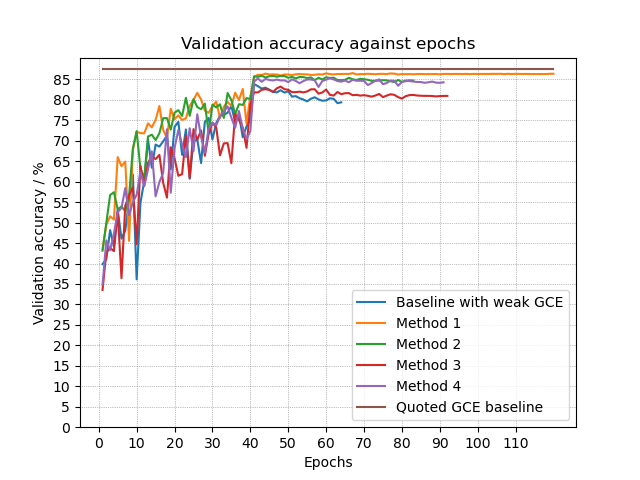
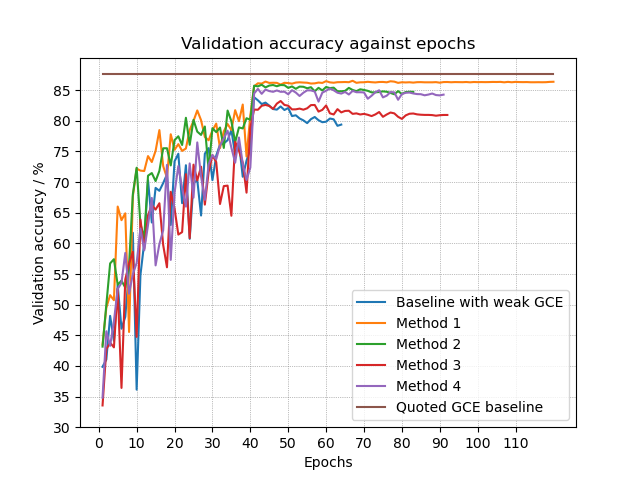
modified range, added mu hyperparameter

diff --git a/dataClean.py b/dataClean.py
@@ -437,10 +437,10 @@ def getPredictions(ds, model, augmentationForModification):
     images = ds[0]
     datagen = ImageDataGenerator(
       rotation_range=15, # rotate images randomly by 15 degrees
-      width_shift_range=0.15, # shift images horizontally by 10% of total width
-      height_shift_range=0.15, # shift images vertically by 10% of total height
-      shear_range=0.1, # apply shear transformation with intensity of 10%
-      zoom_range=0.1, # zoom images randomly by 10%
+      width_shift_range=0.3, # shift images horizontally by 10% of total width
+      height_shift_range=0.3, # shift images vertically by 10% of total height
+      shear_range=0.2, # apply shear transformation with intensity of 10%
+      zoom_range=0.2, # zoom images randomly by 10%
       horizontal_flip=True, # flip images horizontally
       fill_mode='reflect', # fill mode for padding, uses reflection
       brightness_range=(0.9, 1.1), # randomly adjust brightness between 0.9 and 1.1
@@ -527,7 +527,7 @@ def load_datasets():
 
   return set1_ds, set2_ds, val_ds
 
-def modifySet(set2, predictions, truelabels, augmentationForModification, thresh=3, thesh1=0.6):
+def modifySet(set2, predictions, truelabels, augmentationForModification, thresh=3, thesh1=0.6, mu=0.2):
   global dataset_modification_progress
   global accuracy_increase
   global accuracy_decrease
@@ -562,7 +562,7 @@ def modifySet(set2, predictions, truelabels, augmentationForModification, thresh
       
       newlabel = most_common(maxlabels)
 
-      removalCondition = (maxlabels.count(newlabel) > augmentationForModification*0.7) and newlabel != set2[1][i]
+      removalCondition = (maxlabels.count(newlabel) > augmentationForModification*mu) and newlabel != set2[1][i]
       #removalCondition = (set2[1][i] != newlabel)
 
     if removalCondition:
@@ -595,7 +595,7 @@ def modifySet(set2, predictions, truelabels, augmentationForModification, thresh
 
   return set2
 
-def deleteFromSet(set2, predictions, truelabels, augmentationForModification, thresh=2, thesh1=0.6):
+def deleteFromSet(set2, predictions, truelabels, augmentationForModification, thresh=2, thesh1=0.6, mu = 0.2):
   global dataset_modification_progress
   global accuracy_increase
   global accuracy_decrease
@@ -630,7 +630,7 @@ def deleteFromSet(set2, predictions, truelabels, augmentationForModification, th
         if maxscore/thresh > scoreatindex and maxscore > thesh1:
           conditionsMetCount += 1
       
-      removalCondition = conditionsMetCount > augmentationForModification*0.5
+      removalCondition = conditionsMetCount > augmentationForModification*mu
 
     if removalCondition:
       if set2[1][i] == truelabels[i][0]:
@@ -661,7 +661,7 @@ def getValAccuracy(x_train, y_train, x_test, y_test, q = 0.4, epochs = 120):
   val_accuracy, val_loss = getAccuracy(val_imagesEncoded, model)
   return val_accuracy, val_loss
 
-def trainEpochs(images, val_images, epochs, verbose=1, mode="modify", augmentationForModification=-1, saveOtherPartBeforeChanges = True, subEpochs = 41, subQValue = 0.4, monoepoch = False):
+def trainEpochs(images, val_images, epochs, verbose=1, mode="modify", augmentationForModification=-1, saveOtherPartBeforeChanges = True, subEpochs = 41, subQValue = 0.4, monoepoch = False, mu = 0.7):
 
   global epoch, model, predictions, truelabels, set1, set2, half, loading_bar, epochtime, train_epoch, set1_ds, set2_ds, val_ds, val_accuracy, val_loss, dataset_modification_progress, dataset_accuracy_before, dataset_accuracy_after, accuracy_increase, accuracy_decrease, accuracy_not_changed, total_accuracy
 
@@ -736,9 +736,9 @@ def trainEpochs(images, val_images, epochs, verbose=1, mode="modify", augmentati
         settotrainon = copy.deepcopy(set2) # This means that biases aren't fed forward
 
       if mode == "modify":
-        set2 = modifySet(set2, predictions, truelabels, augmentationForModification)
+        set2 = modifySet(set2, predictions, truelabels, augmentationForModification, mu)
       else:
-        set2 = deleteFromSet(set2, predictions, truelabels, augmentationForModification)
+        set2 = deleteFromSet(set2, predictions, truelabels, augmentationForModification, mu)
         truelabels = set2[2]
       
       if not saveOtherPartBeforeChanges:

diff --git a/graphshow.py b/graphshow.py
@@ -16,6 +16,8 @@ data["Quoted GCE baseline"] = [[0.8762 for i in range(120)], [1 for i in range(1
 # Create a figure and axis
 fig, ax = plt.subplots()
 
+allyvals = []
+
 # Plot each series
 for i, (series_name, series_data) in enumerate(data.items()):
     if series_name in ["Baseline with weak GCE", "Quoted GCE baseline"]:
@@ -28,13 +30,17 @@ for i, (series_name, series_data) in enumerate(data.items()):
     
     x = list(range(1, len(series_data[0]) + 1))  # x-values
     y = [val * 100 for val in series_data[0]]  # y-values multiplied by 100
+    allyvals += y
     ax.plot(x, y, label=label)
+
+def concat(y):
+    print(y)
 
 # Add legend
 ax.legend()
 ax.legend(loc='lower right')
 
-ax.set_yticks(range(0, int(max(y)) + 1, 5))
+ax.set_yticks(range((int(min(allyvals))//5)*5, int(max(allyvals)) + 1, 5))
 ax.set_xticks(range(0, 120, 10))
 
 ax.grid(color='gray', linestyle=':', linewidth=0.5)

diff --git a/pytorchgraphshow.py b/pytorchgraphshow.py
@@ -26,7 +26,7 @@ for i, (series_name, series_data) in enumerate(data.items()):
 ax.legend()
 ax.legend(loc='lower right')
 
-ax.set_yticks(range(0, int(max(y)) + 1, 5))
+ax.set_yticks(range((int(min(y))//5)*5, int(max(y)) + 1, 5))
 ax.set_xticks(range(0, 120, 10))
 
 ax.grid(color='gray', linestyle=':', linewidth=0.5)
